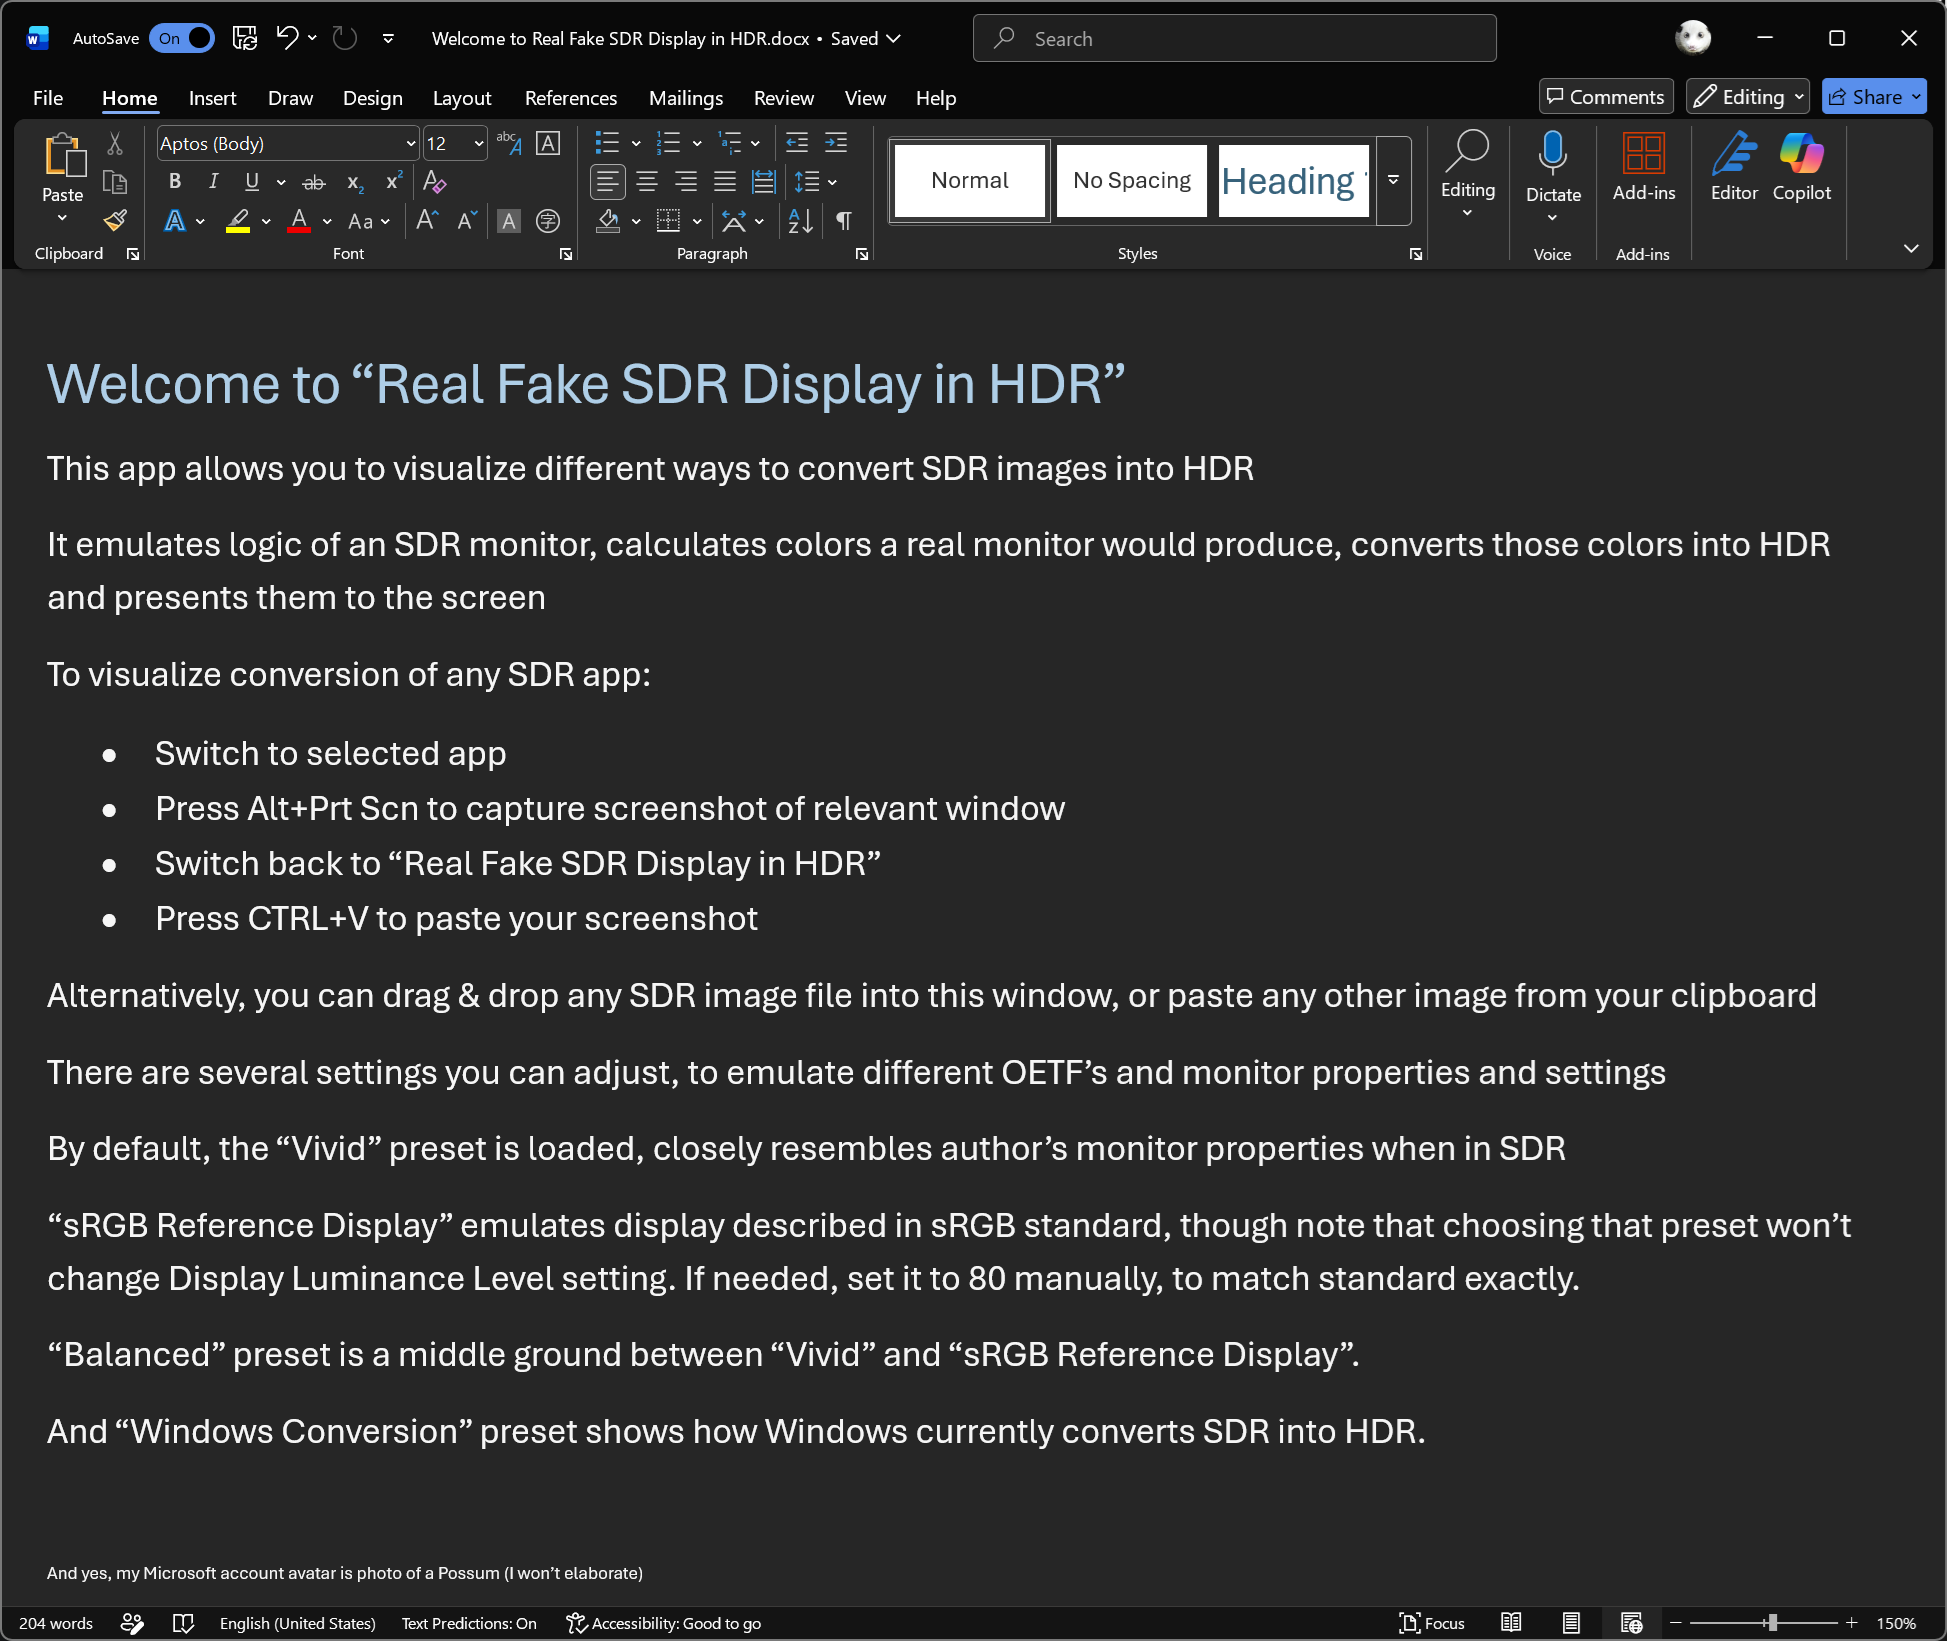
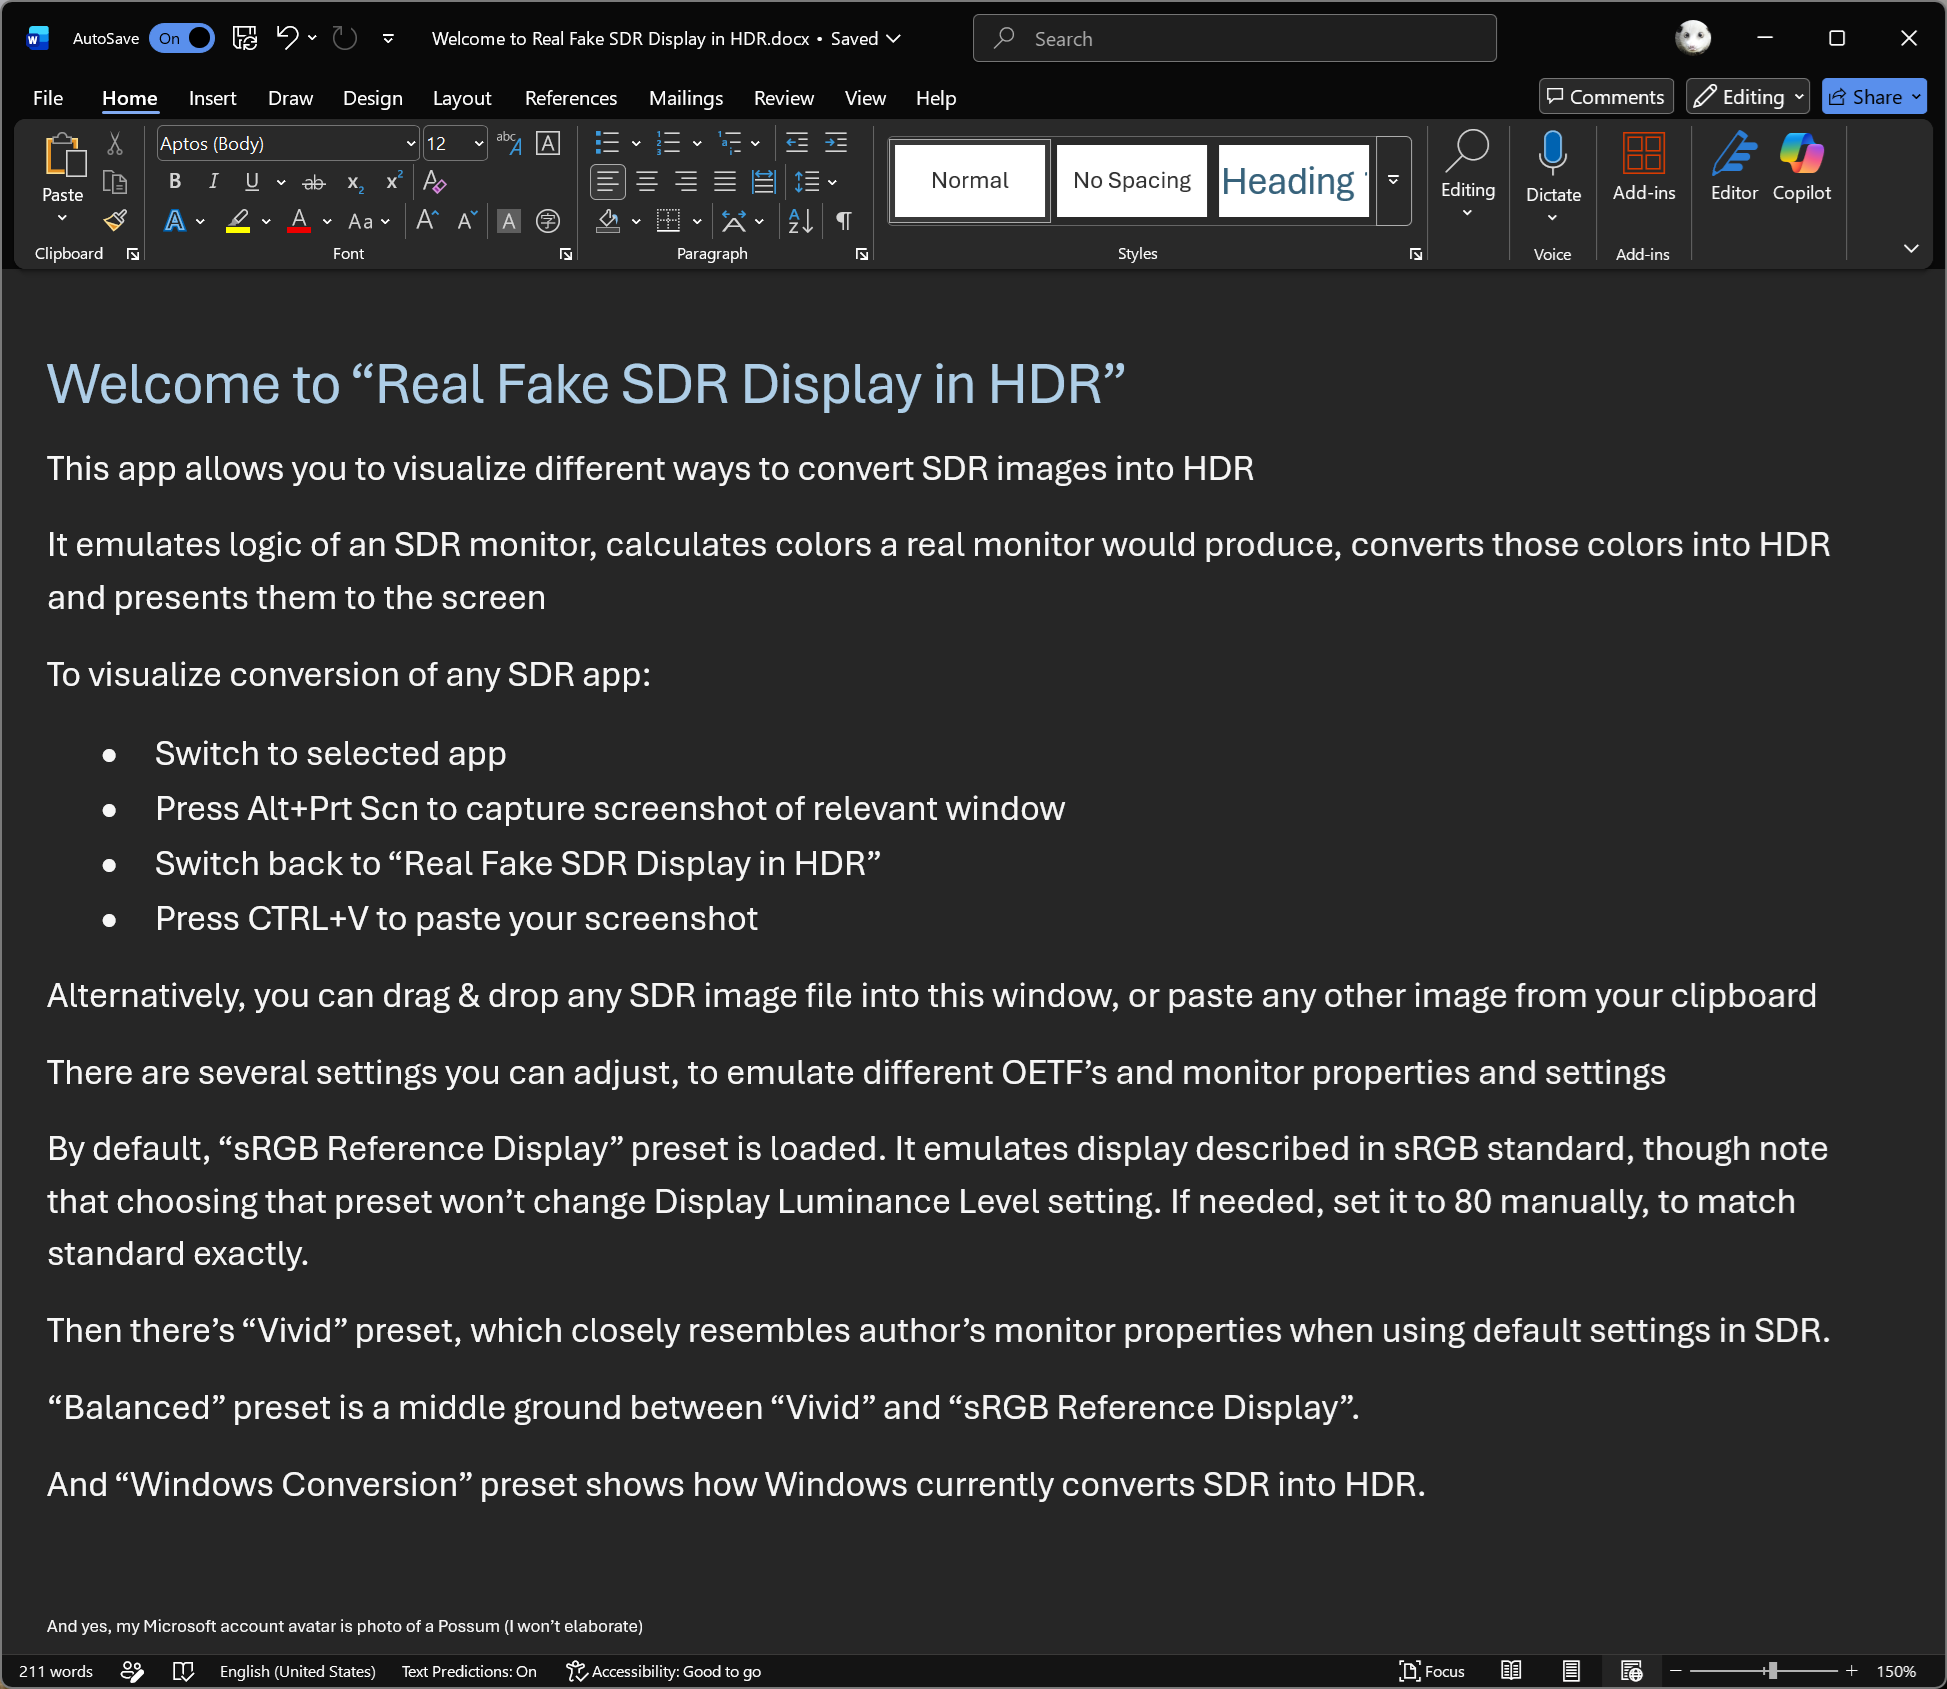
Updated embedded images

diff --git a/src/embeds.cpp b/src/embeds.cpp
@@ -8,6 +8,7 @@
 #include "image_3.h"
 #include "image_4.h"
 #include "image_5.h"
+#include "image_6.h"
 #include "open_source_licenses.h"
 #include "tonemap_ps.dxbc.h"
 #include "tonemap_vs.dxbc.h"
@@ -61,6 +62,11 @@ MemoryBlock GetImage(int index)
         return {
             .data = image_5,
             .size = sizeof(image_5),
+        };
+    case 6:
+        return {
+            .data = image_6,
+            .size = sizeof(image_6),
         };
     default:
         assert(0);

diff --git a/src/main.cpp b/src/main.cpp
@@ -355,7 +355,7 @@ void RenderImGui()
         PostMessage(WindowHWND, WM_LOAD_BUNDLED_IMAGE, 0, 0);
     }
 
-    for (int i = 1; i <= 5; ++i)
+    for (int i = 1; i <= 6; ++i)
     {
         ImGui::SameLine();
         std::string indexStr = std::to_string(i);